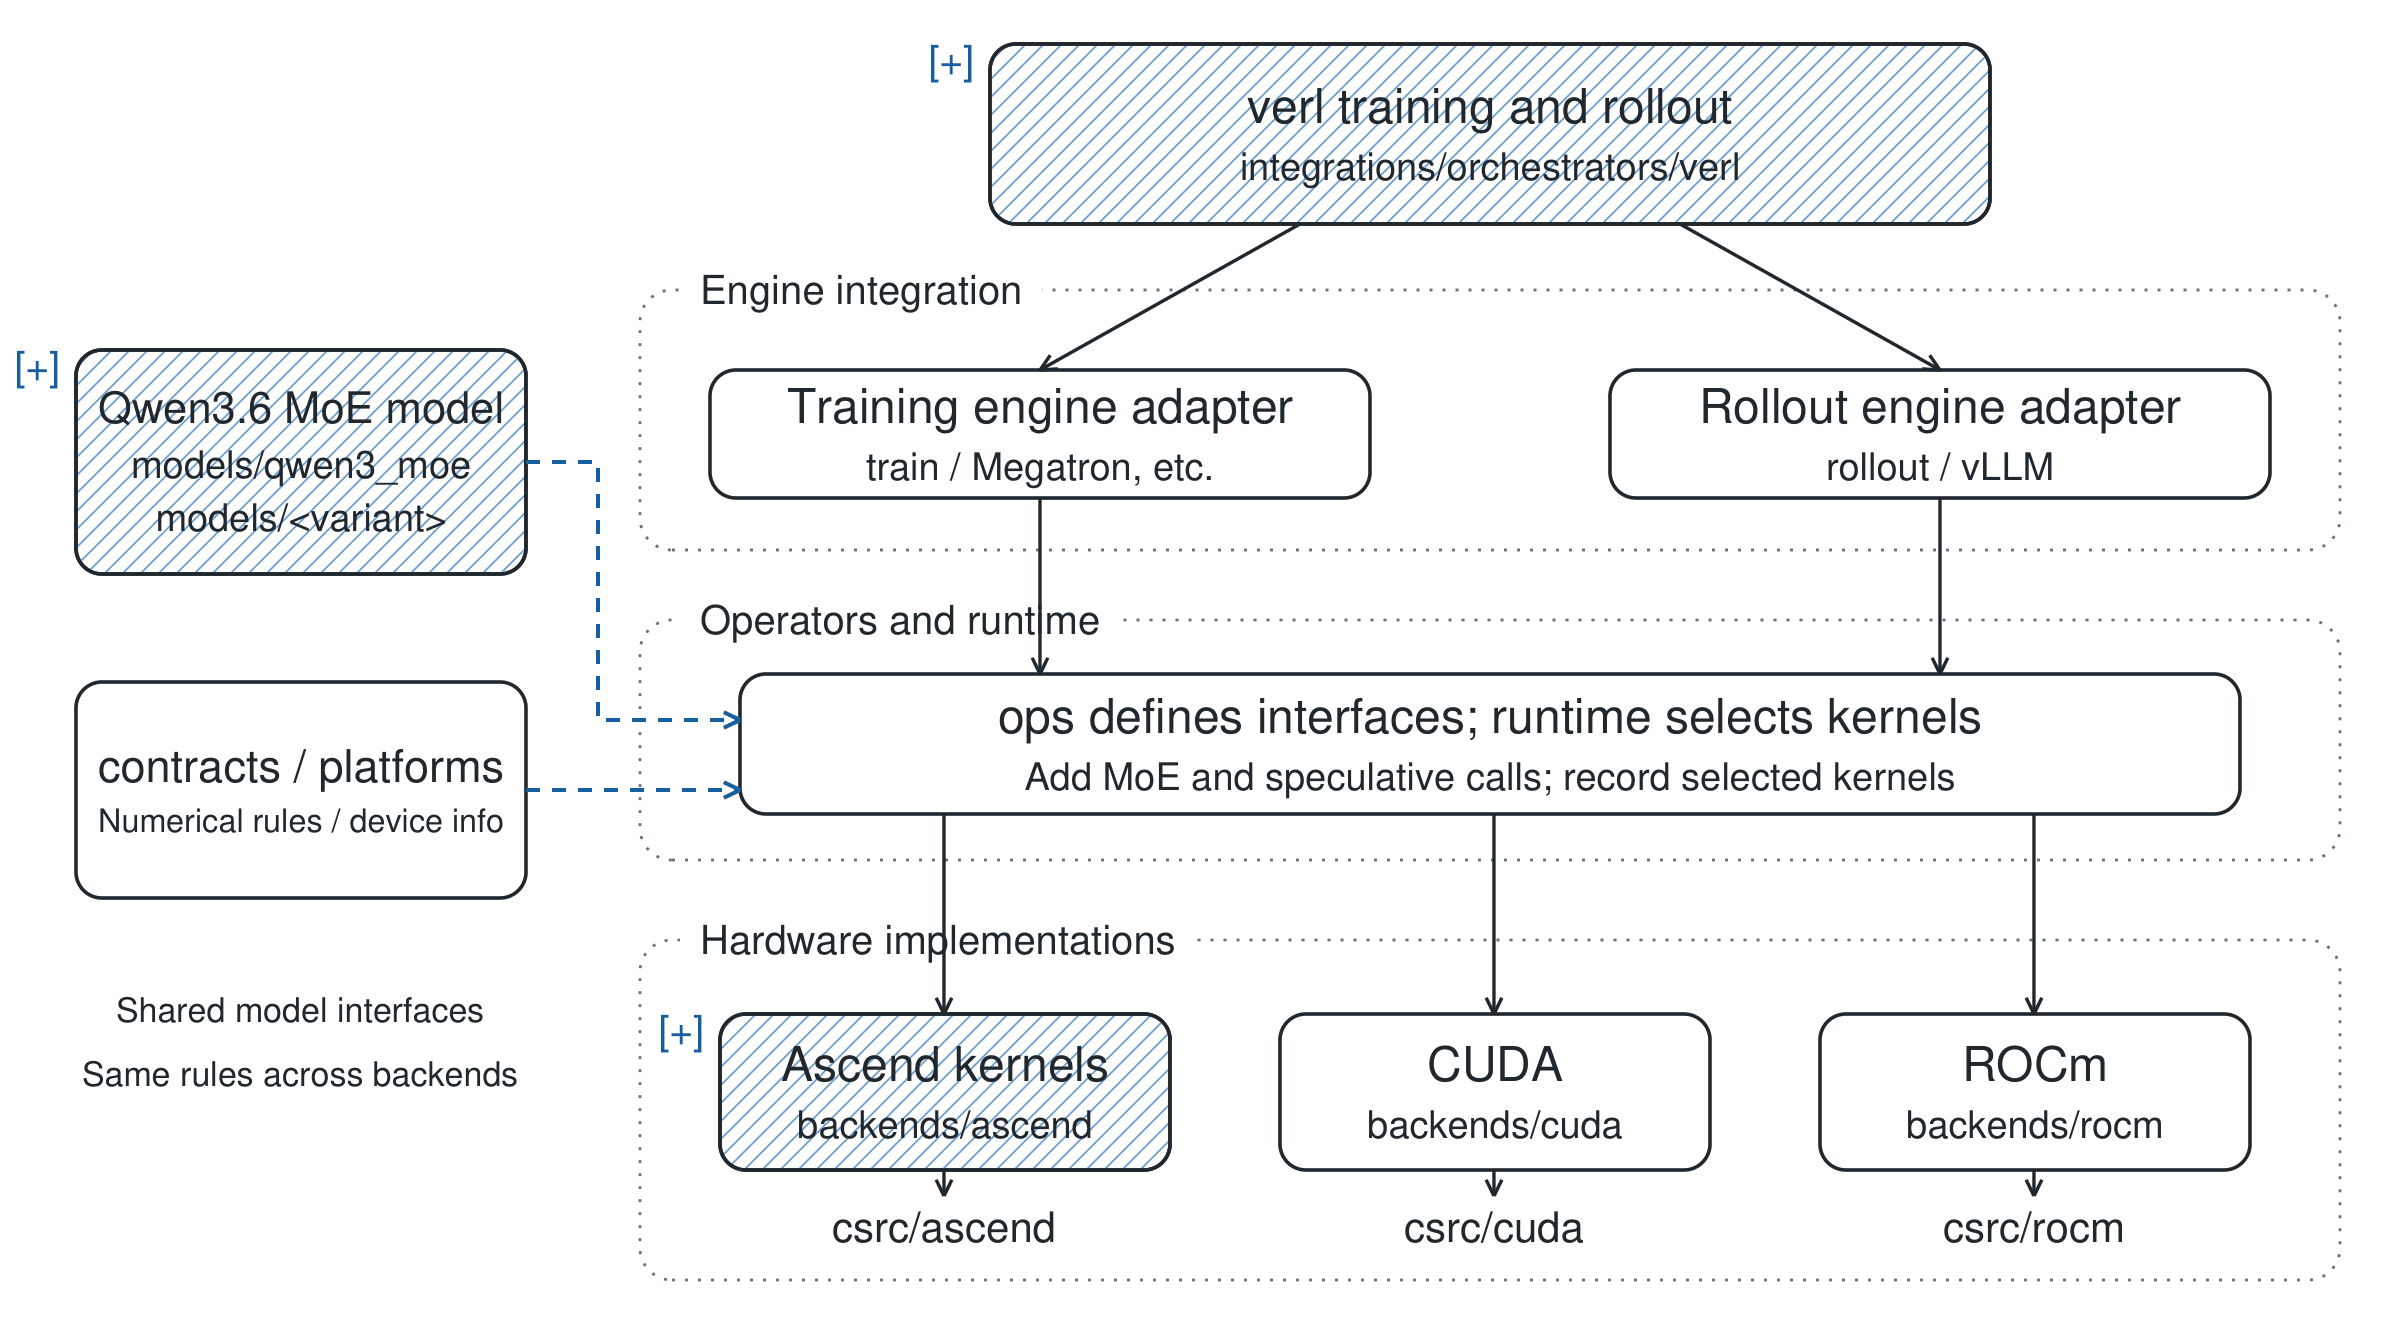
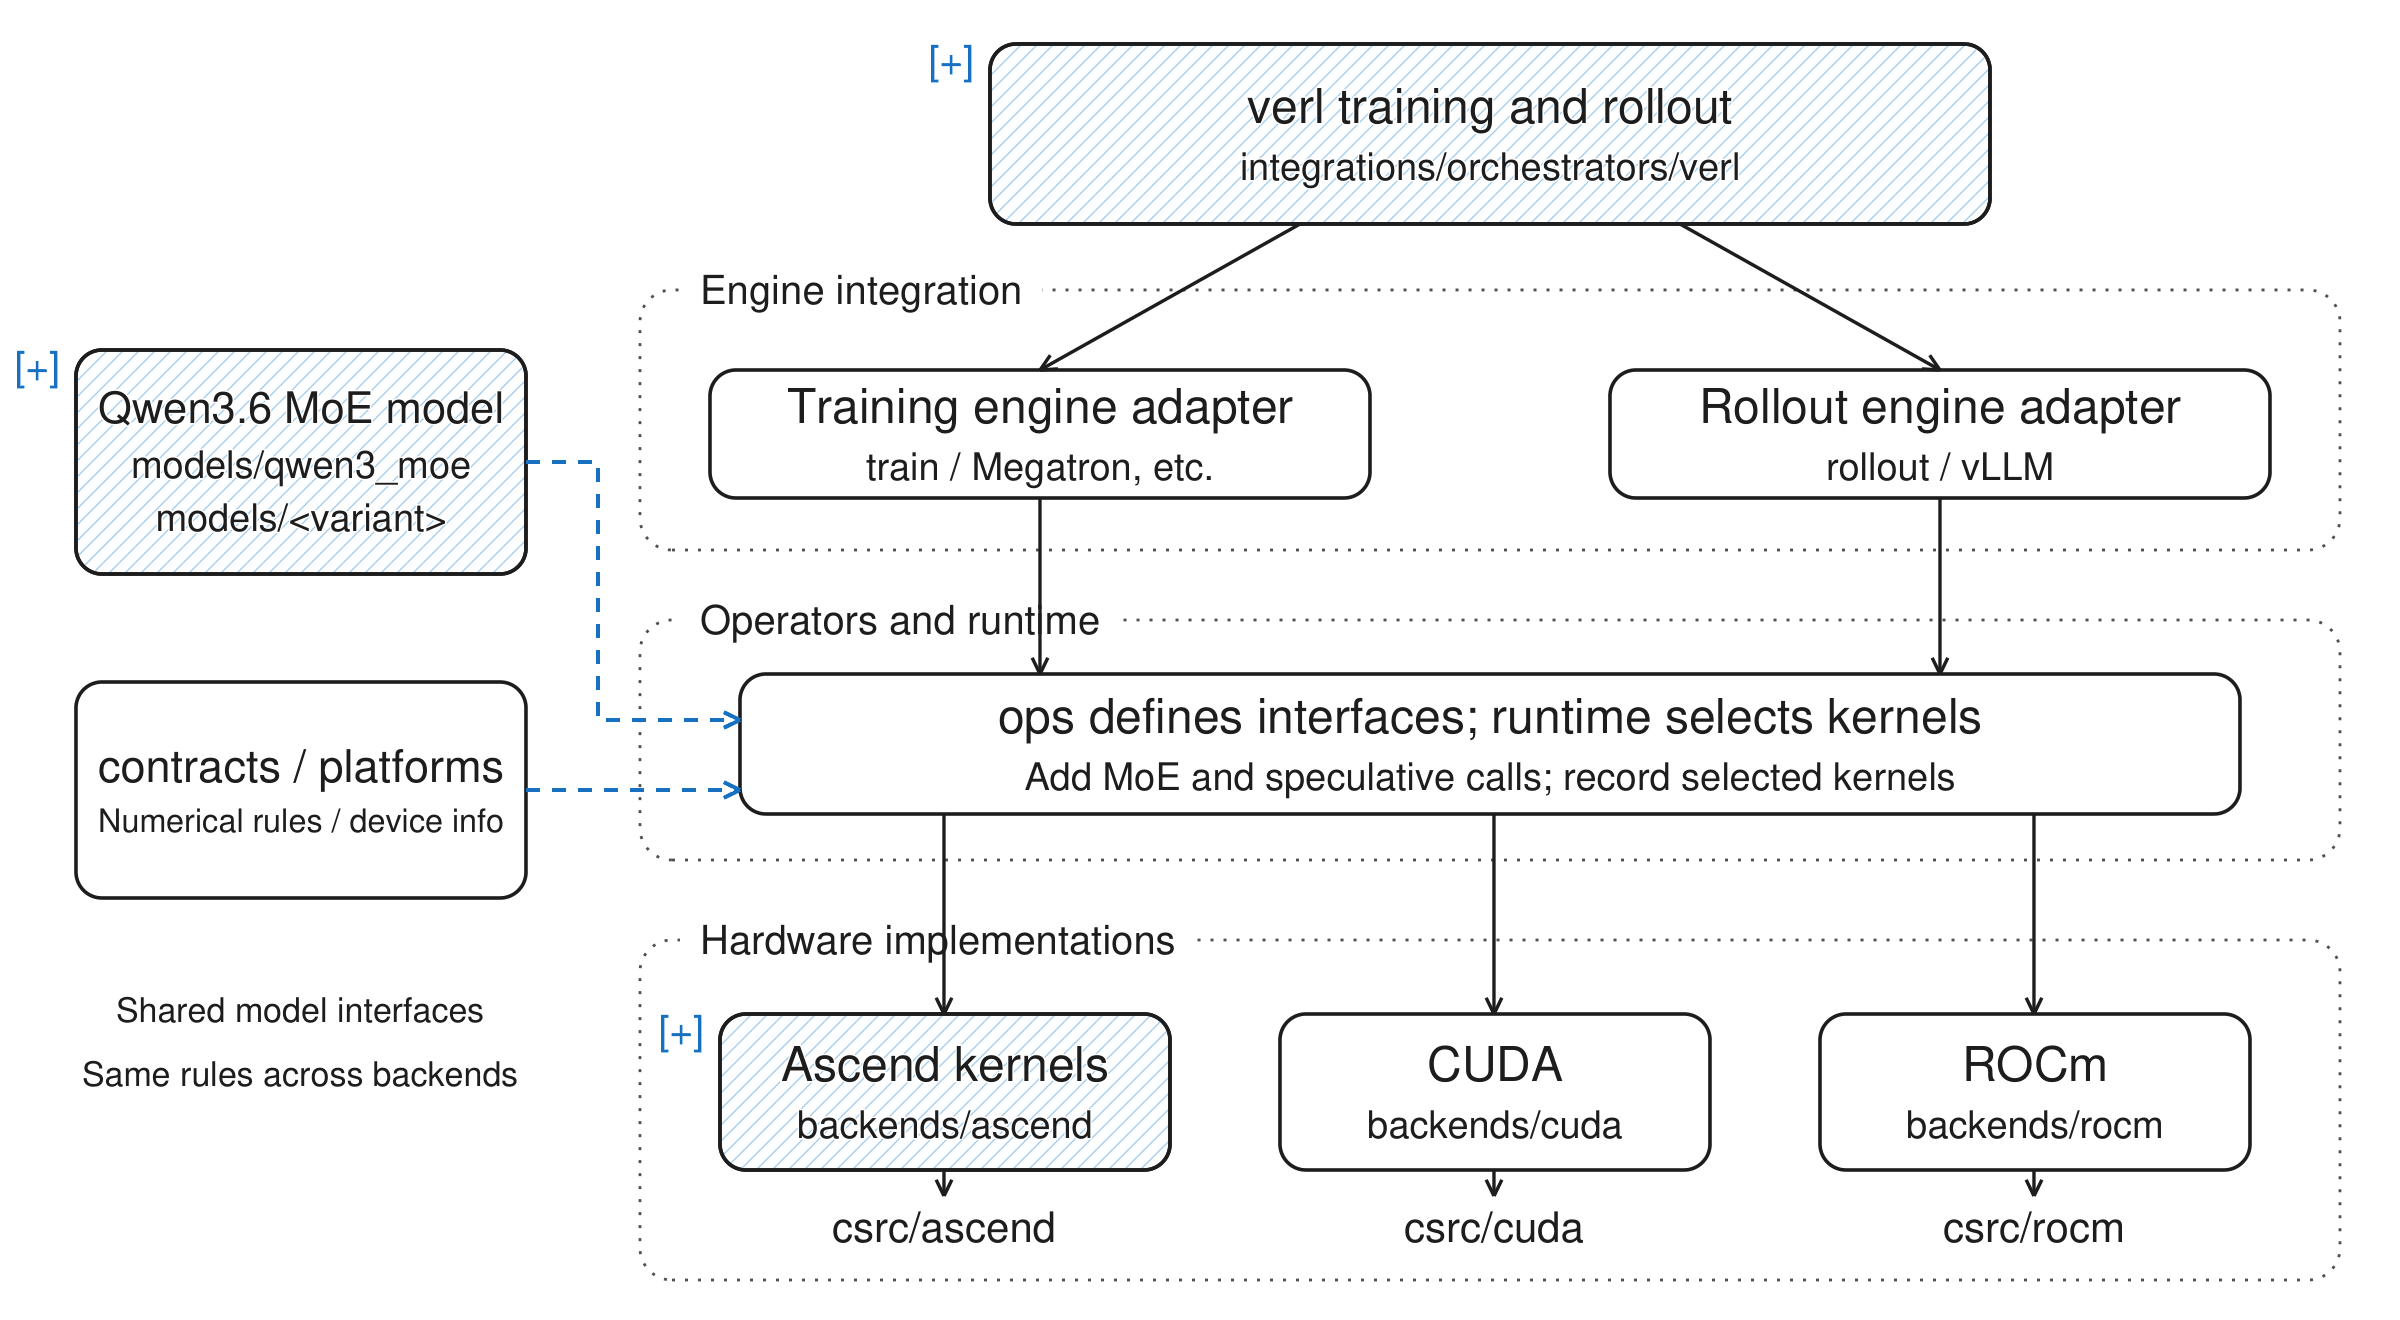
docs: improve roadmap diagram text contrast and hatch styling

Changed region(s): [[0.375, 0.0311, 0.8438, 0.1864], [0.0312, 0.2485, 0.2188, 0.4348], [0.2812, 0.7765, 0.5, 0.9008]]

diff --git a/docs/roadmaps/assets/issue-563/render.py b/docs/roadmaps/assets/issue-563/render.py
@@ -12,23 +12,35 @@ from reportlab.pdfbase import pdfmetrics
 from reportlab.lib import colors
 
 ASSETS = Path(__file__).resolve().parent
-INK=colors.HexColor('#22282E'); BLUE=colors.HexColor('#1761A2')
-PALE=colors.HexColor('#6E9FD2'); GRAY=colors.HexColor('#68747E')
+INK=colors.HexColor('#1E1E1E'); BLUE=colors.HexColor('#1971C2')
+PALE=colors.HexColor('#99C9EF'); GRAY=colors.HexColor('#515151')
 
 class Figure:
-    def __init__(self,c,w=1200,h=660): self.c=c; self.w=w; self.h=h
+    def __init__(self,c,w=1200,h=660):
+        self.c=c; self.w=w; self.h=h; self.hatched_regions=[]
     def label(self,x,y,s,size=23,bold=False,color=INK,align='center'):
         c=self.c; c.setFillColor(color);c.setFont('Helvetica' if bold else 'Helvetica',size)
+        # Keep thin blue hatching clear of glyphs, without a text-box fill.
+        width=pdfmetrics.stringWidth(s,'Helvetica',size)
+        left=x-width/2 if align=='center' else (x-width if align=='right' else x)
+        baseline=self.h-y-size*.34
+        if any(rx <= x <= rx+rw and ry <= y <= ry+rh for rx,ry,rw,rh in self.hatched_regions):
+            c.saveState(); c.setFillColor(colors.white); c.setStrokeColor(colors.white)
+            c.setLineWidth(1.45)
+            text=c.beginText(left,baseline); text.setFont('Helvetica',size)
+            text.setTextRenderMode(2); text.textOut(s); c.drawText(text); c.restoreState()
+            c.setFillColor(color); c.setFont('Helvetica',size)
         fn={'center':c.drawCentredString,'left':c.drawString,'right':c.drawRightString}[align]
-        fn(x,self.h-y-size*.34,s)
+        fn(x,baseline,s)
     def node(self,x,y,w,h,lines,new=False,small=False):
         c=self.c;yy=self.h-y-h
         c.setFillColor(colors.white);c.setStrokeColor(INK);c.setLineWidth(1.8);c.roundRect(x,yy,w,h,13,fill=1,stroke=1)
         if new:
             c.saveState();p=c.beginPath();p.roundRect(x+1,yy+1,w-2,h-2,12);c.clipPath(p,stroke=0,fill=0)
-            c.setStrokeColor(PALE);c.setLineWidth(.85)
-            for k in range(-int(h),int(w)+int(h),9): c.line(x+k,yy,x+k+h,yy+h)
+            c.setStrokeColor(PALE);c.setLineWidth(.6)
+            for k in range(-int(h),int(w)+int(h),8): c.line(x+k,yy,x+k+h,yy+h)
             c.restoreState();c.setStrokeColor(INK);c.setLineWidth(1.8);c.roundRect(x,yy,w,h,13,stroke=1,fill=0)
+            self.hatched_regions.append((x,y,w,h))
             self.label(x-8,y+8,'[+]',size=20,bold=True,color=BLUE,align='right')
         specs=[]
         for idx,l in enumerate(lines):
